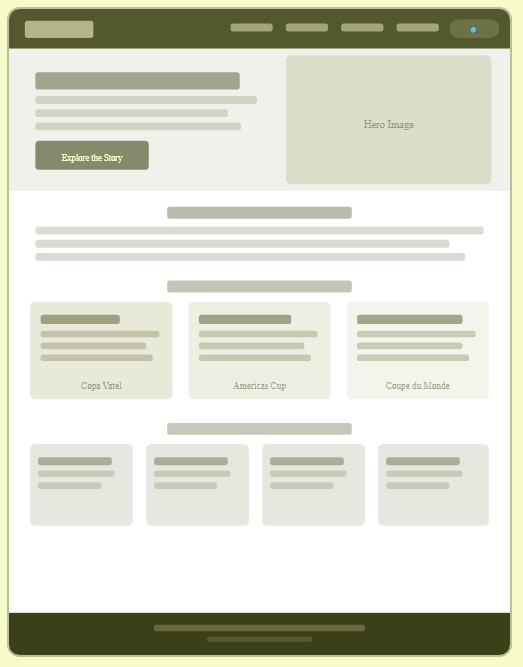
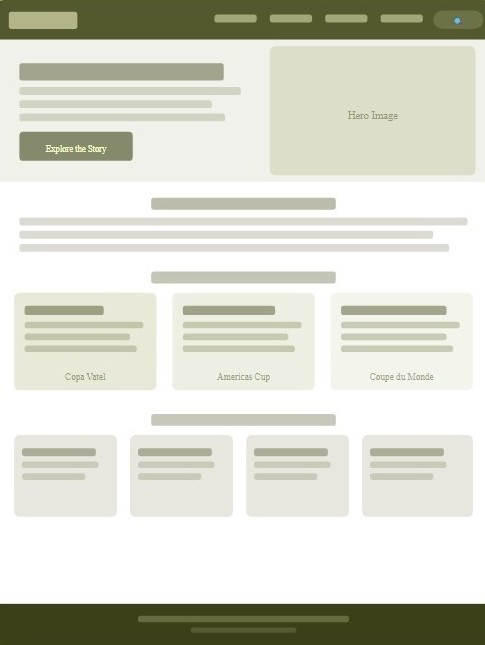
images

diff --git a/project/styles/siteplan.css b/project/styles/siteplan.css
@@ -23,7 +23,7 @@
 }
 
 body {
-    background-color: var(--color-olivegreen-1);
+    background-color: whitesmoke;
     color: var(--color-olivegreen-5);
     font-family: var(--font-body);
     text-align: justify;
